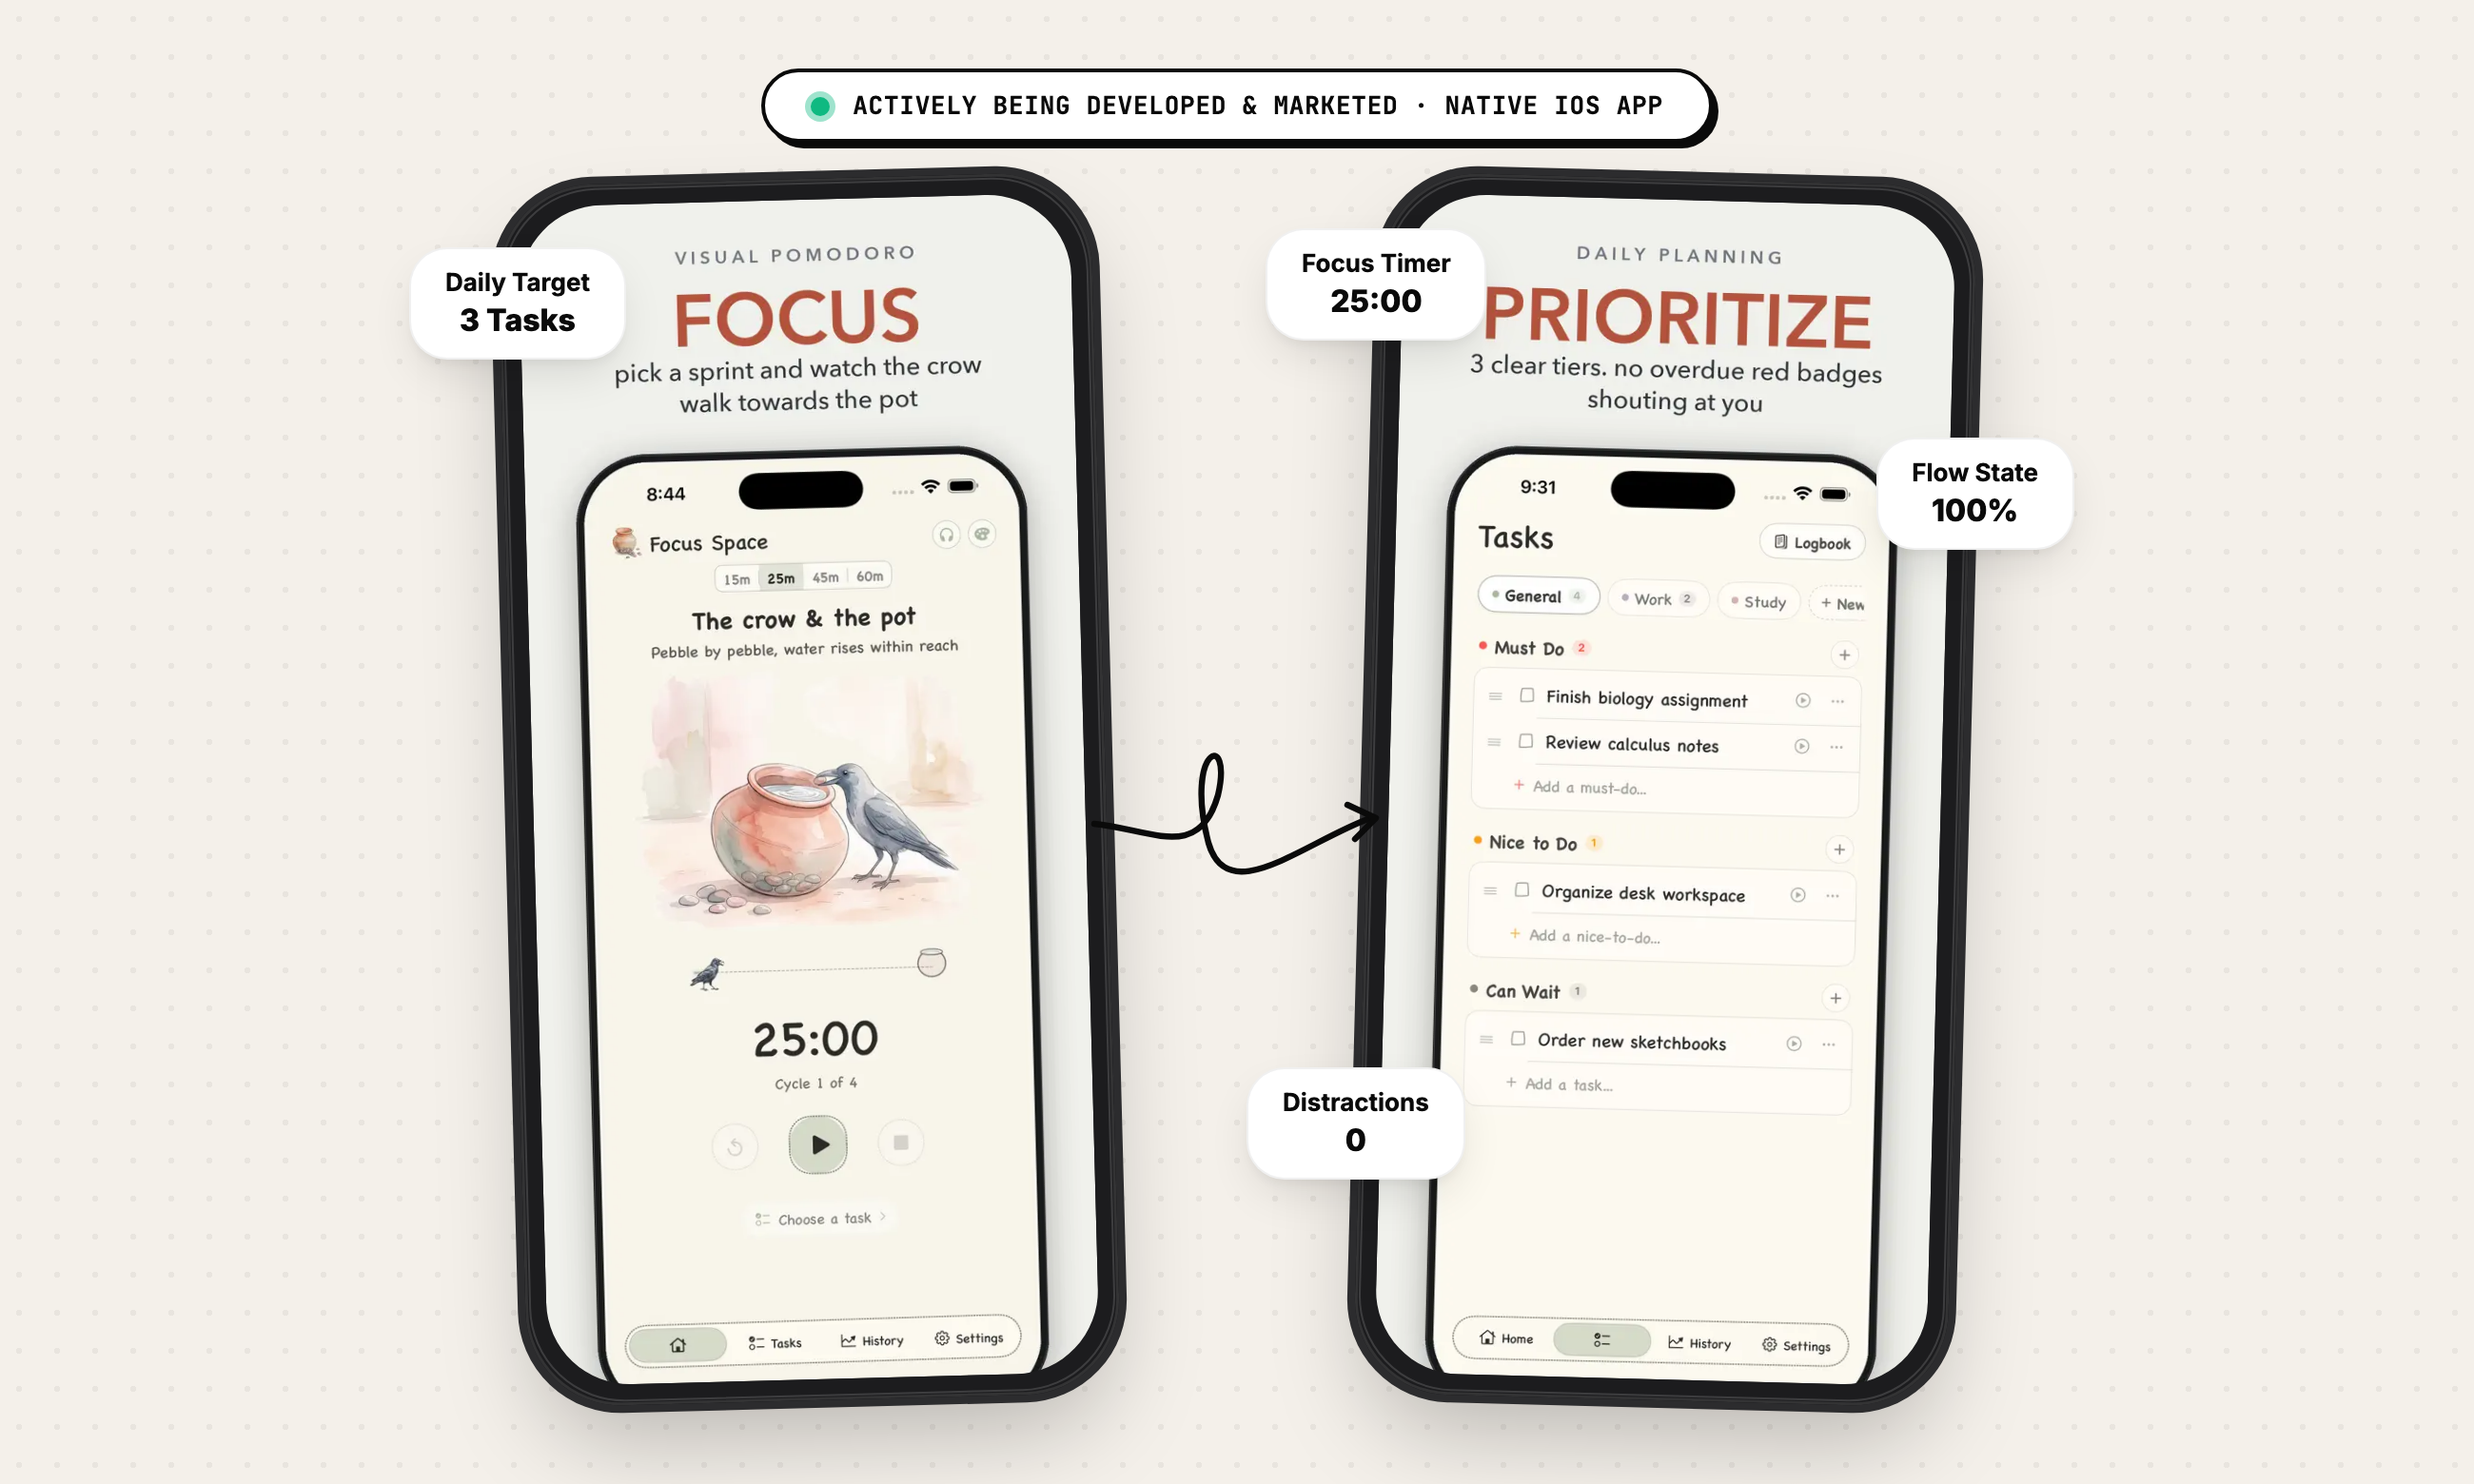
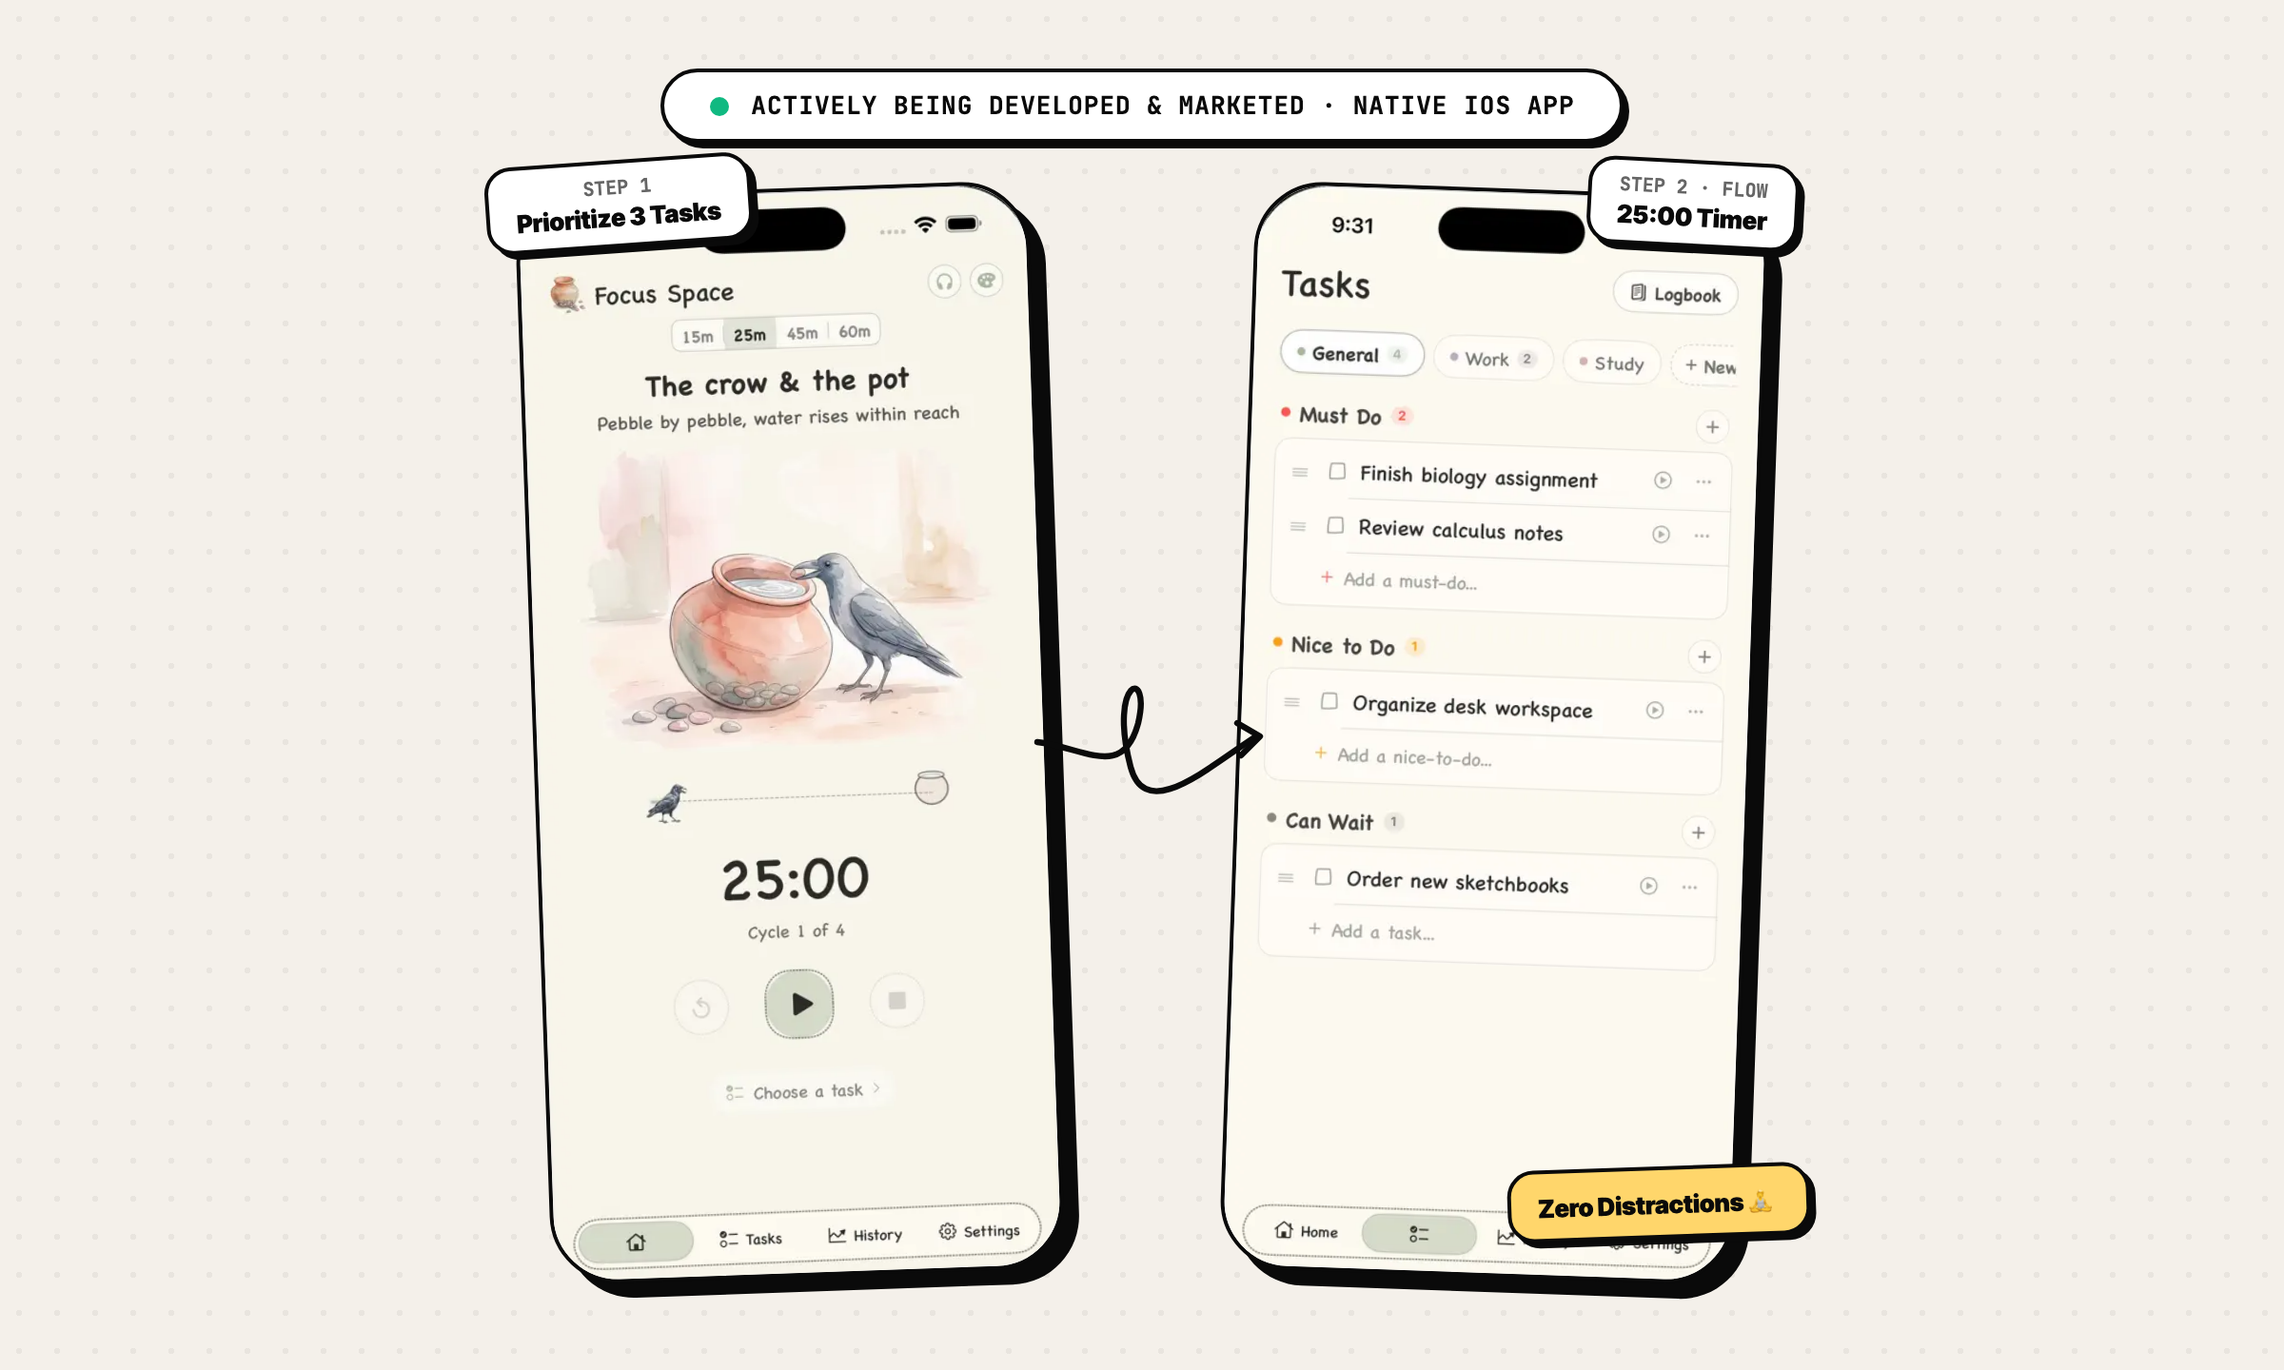
feat: use raw phone screens without outer mockups or App Store text

Changed region(s): [[0.1875, 0.0312, 0.8438, 1.0], [0.2812, 0.6875, 0.375, 0.8125], [0.625, 0.6875, 0.6875, 0.7188]]

diff --git a/index.html b/index.html
@@ -387,16 +387,14 @@
                 <div class="text-xs font-heading font-black text-[#0A0A0A]">Prioritize 3 Tasks</div>
               </div>
 
-              <!-- iPhone Body -->
-              <div class="w-36 sm:w-48 bg-[#0A0A0A] p-2 sm:p-2.5 rounded-[28px] sm:rounded-[36px] border-[2.5px] border-[#0A0A0A] shadow-brutal-md transform -rotate-2 hover:rotate-0 transition-transform">
-                <div class="overflow-hidden rounded-[20px] sm:rounded-[26px] bg-black">
-                  <img src="./assets/focus_space/screen_2.webp" alt="Focus Space - Prioritize Tasks Screen" class="w-full h-auto object-cover" loading="lazy">
-                </div>
+              <!-- Pure Phone Screen (Clean rounded corners, no bulky outer frame) -->
+              <div class="w-36 sm:w-48 overflow-hidden rounded-[24px] sm:rounded-[30px] border-2 border-[#0A0A0A] shadow-brutal-md transform -rotate-2 hover:rotate-0 transition-transform bg-white">
+                <img src="./assets/focus_space/screen_crop_2.png" alt="Focus Space - Prioritize Tasks Screen" class="w-full h-auto block" loading="lazy">
               </div>
             </div>
 
             <!-- HAND-DRAWN LOOP-DE-LOOP ARROW IN CENTER (MATCHING EXAMPLE IMAGE) -->
-            <div class="relative z-20 mx-[-12px] sm:mx-[-20px] shrink-0 pointer-events-none">
+            <div class="relative z-20 mx-[-10px] sm:mx-[-18px] shrink-0 pointer-events-none">
               <svg class="w-20 h-16 sm:w-28 sm:h-20" viewBox="0 0 140 100" fill="none" xmlns="http://www.w3.org/2000/svg">
                 <!-- Playful hand-drawn loop-de-loop curve -->
                 <path d="M 15 55 C 40 58, 60 75, 68 45 C 75 15, 52 22, 64 68 C 72 98, 105 68, 130 52" 
@@ -419,11 +417,9 @@
                 <div class="text-[11px] font-heading font-black text-[#0A0A0A]">Zero Distractions 🧘</div>
               </div>
 
-              <!-- iPhone Body -->
-              <div class="w-36 sm:w-48 bg-[#0A0A0A] p-2 sm:p-2.5 rounded-[28px] sm:rounded-[36px] border-[2.5px] border-[#0A0A0A] shadow-brutal-md transform rotate-2 hover:rotate-0 transition-transform">
-                <div class="overflow-hidden rounded-[20px] sm:rounded-[26px] bg-black">
-                  <img src="./assets/focus_space/screen_1.webp" alt="Focus Space - Focus Timer Screen" class="w-full h-auto object-cover" loading="lazy">
-                </div>
+              <!-- Pure Phone Screen (Clean rounded corners, no bulky outer frame) -->
+              <div class="w-36 sm:w-48 overflow-hidden rounded-[24px] sm:rounded-[30px] border-2 border-[#0A0A0A] shadow-brutal-md transform rotate-2 hover:rotate-0 transition-transform bg-white">
+                <img src="./assets/focus_space/screen_crop_1.png" alt="Focus Space - Focus Timer Screen" class="w-full h-auto block" loading="lazy">
               </div>
             </div>
 
